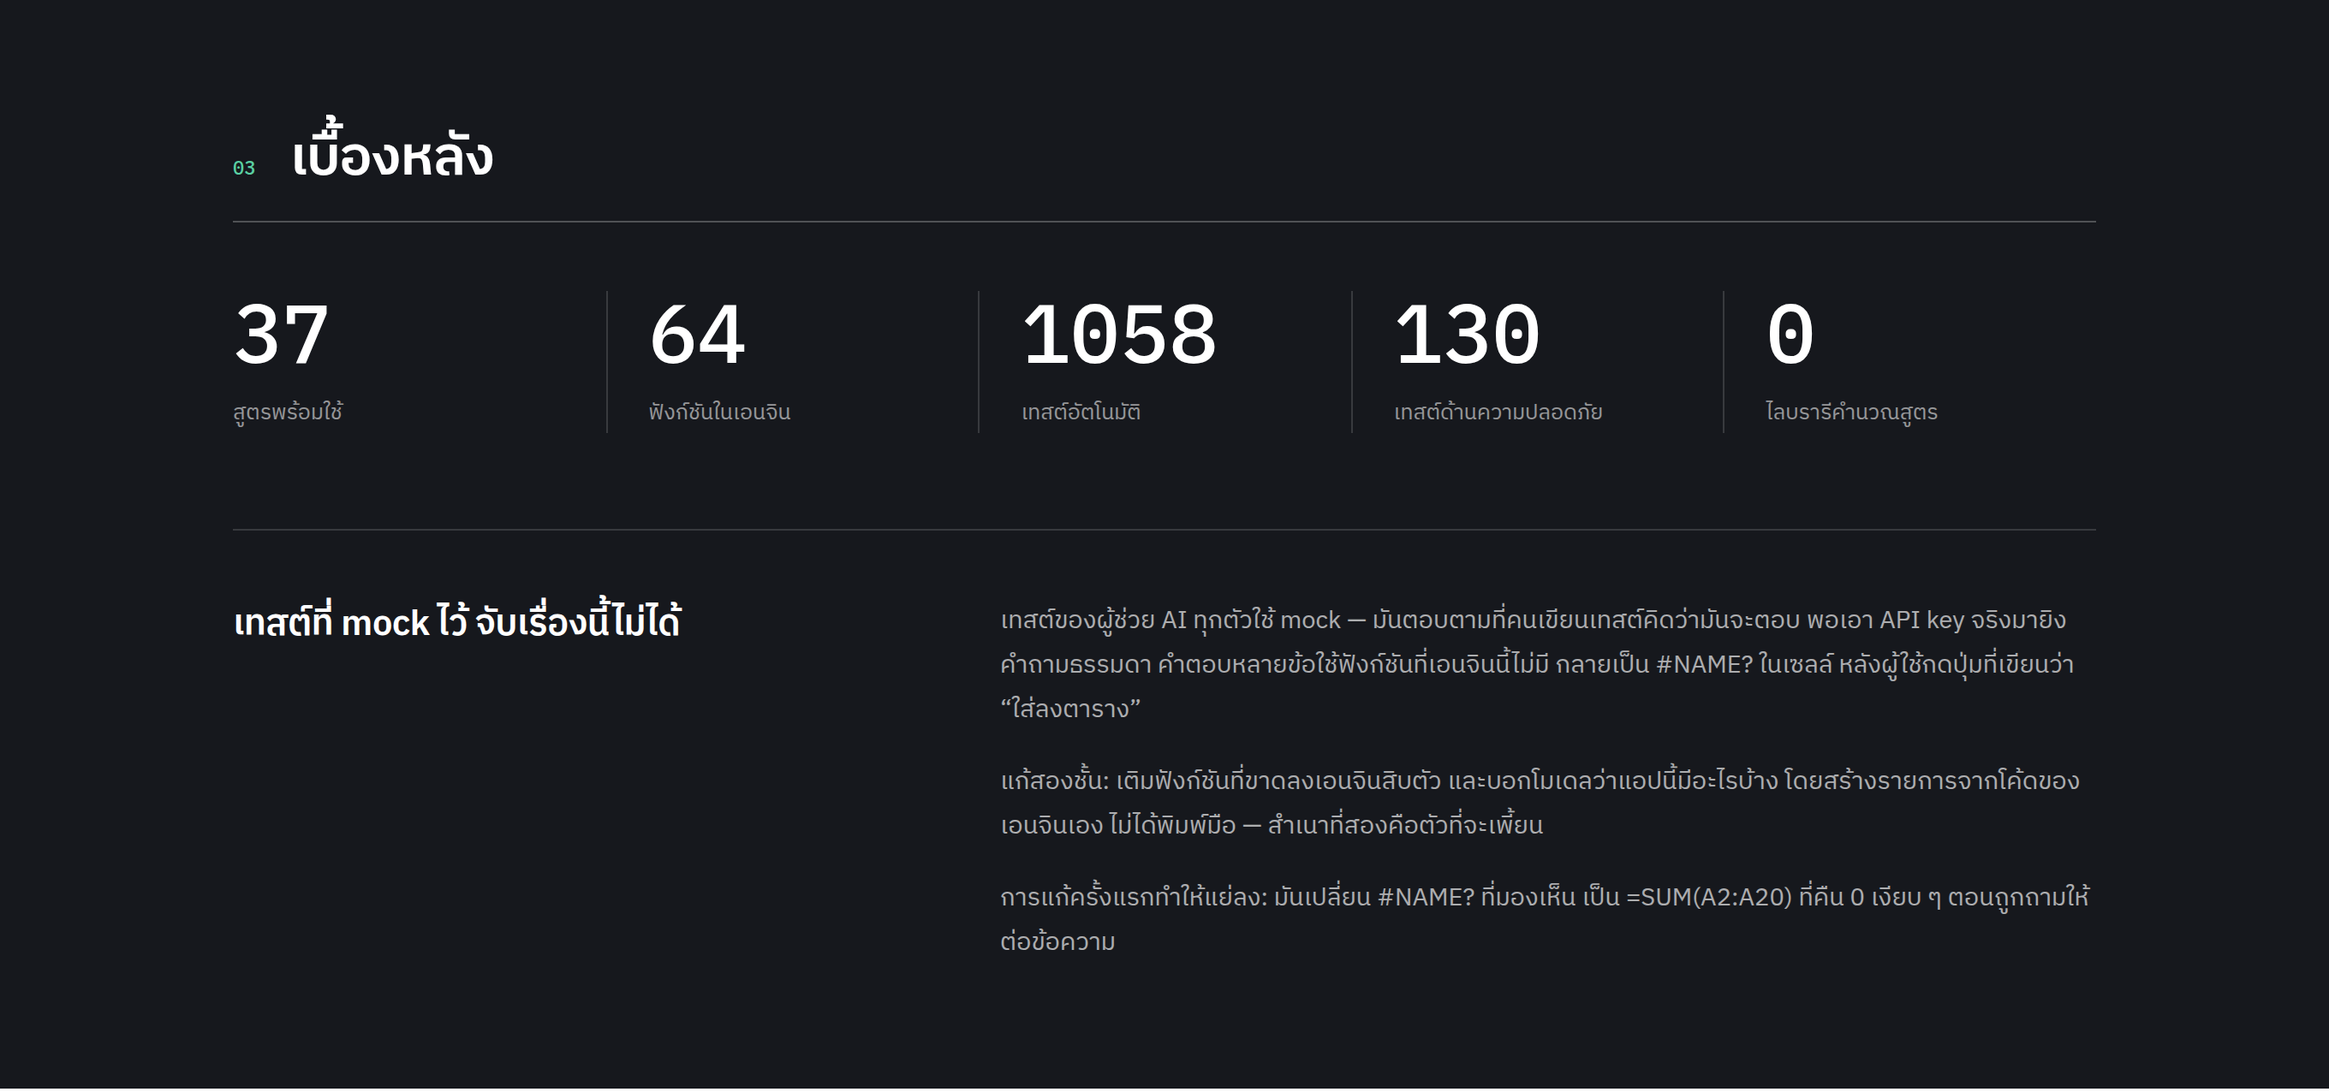
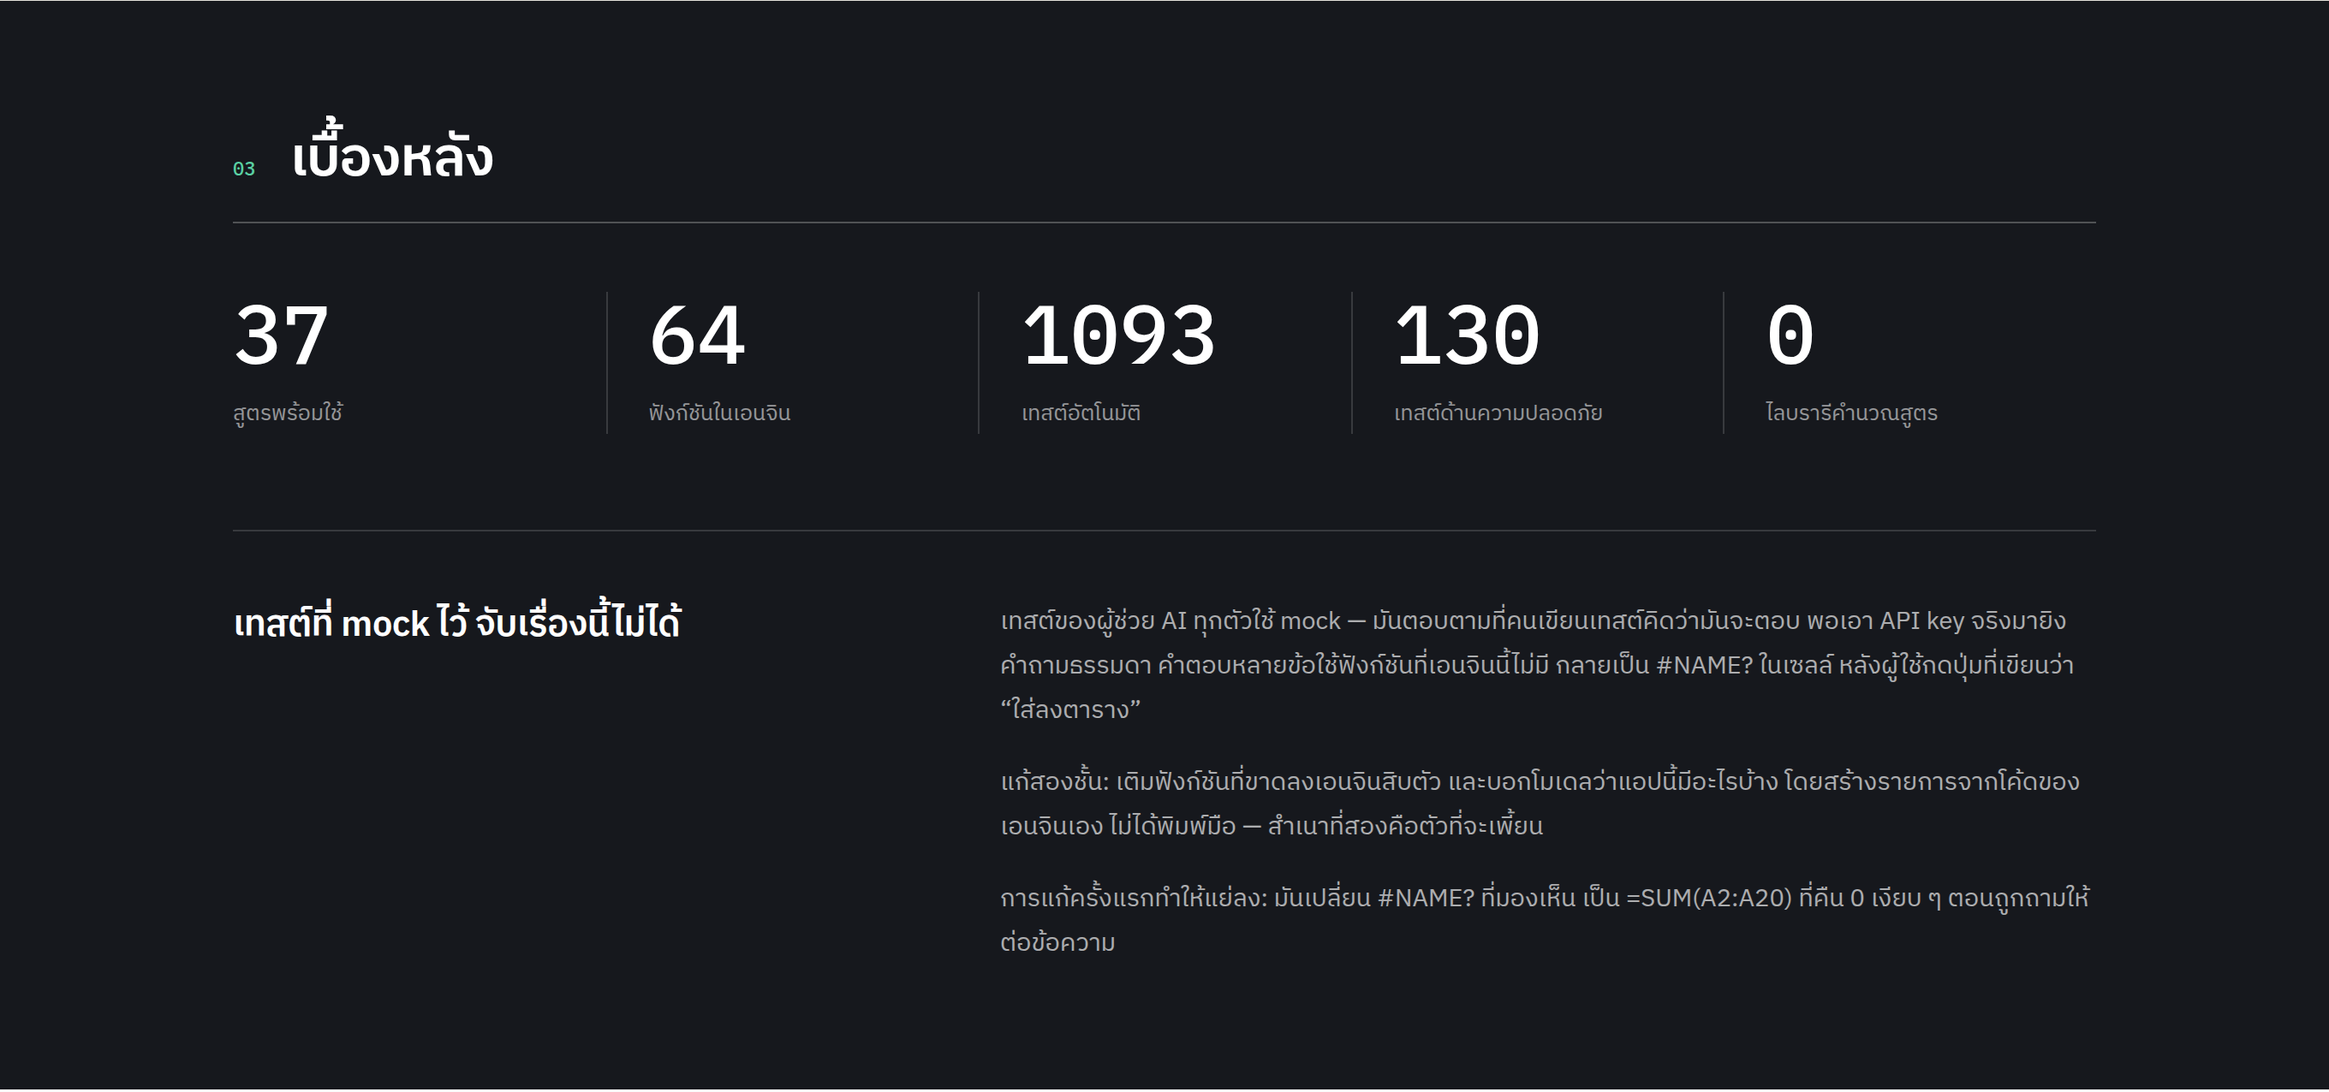
ci: a gate for the claims only a screenshot makes
`check:readme` counts tests in text, so a landing image reading "519 tests"
passed every gate for days while the real figure was 577. It happened again at
980. Both times the image was right when it was taken and quietly stopped being
right, which is the difficulty: nothing was wrong at the moment anyone looked.

So each screenshot now declares which counted figures it prints, and
`screenshots.json` records what those figures were at the last retake. A count
that moves without a retake names the file. It cannot read pixels; it notices
the world moving under them, which is the half that went wrong twice.

Every file in the folder needs an entry, including the thirty-eight that print
no figure at all: `[]` is a decision, a missing entry is an oversight, and the
whole point is telling those apart. Same shape as OPENED_STATES in the a11y gate.

It found two stale images on its first run — the landing hero and the stat strip
were both taken at 1058 and the suite is at 1093. Retaken from a production
build.

`check:readme` gains an escape hatch while I was in there: a project that
documents its own mistakes has to be able to quote a wrong number, and
"an image reading 519 tests survived for days" is a story, not a claim. A line
marked `<!-- historic -->` is exempt, and the marker is deliberately ugly so
that using it to silence a genuinely stale figure is an obvious thing to be
doing on purpose.

verify is ten gates.
[…]

diff --git a/AGENTS.md b/AGENTS.md
@@ -7,14 +7,14 @@
 Run one command and get it green before committing:
 
 ```bash
-npm run verify     # lint → check:readme → check:deps → test → check:mutants
+npm run verify     # lint → check:readme → check:screens → check:deps → test → check:mutants
                    #   → build → check:bundle → check:a11y → check:e2e
 ```
 
-GitHub Actions รันเก้าด่านเดียวกันนี้ทุก push และทุก PR (`.github/workflows/ci.yml`, Node 20.19 / 22.12 / 24;
+GitHub Actions รันสิบด่านเดียวกันนี้ทุก push และทุก PR (`.github/workflows/ci.yml`, Node 20.19 / 22.12 / 24;
 ด่าน a11y กับ e2e แยกเป็น job ของตัวเองเพราะต้องใช้เบราว์เซอร์) —
 รันเองก่อนยังคงเร็วกว่ารอ CI บอกว่าพัง
-GitHub Actions runs the same nine gates on every push and PR (Node 20.19 / 22.12 / 24; the a11y and e2e gates
+GitHub Actions runs the same ten gates on every push and PR (Node 20.19 / 22.12 / 24; the a11y and e2e gates
 are jobs of their own because they need a browser) — running them yourself
 first is still faster than waiting for CI to tell you.
 
@@ -83,6 +83,12 @@ cross means this commit rather than this draw; go looking for new gaps on purpos
   ลงแค่สำเนาเดียว การ์ดจึงเขียน 91 ทั้งที่ทุกที่อื่นเขียน 103 และไม่มีด่านไหนจับได้เพราะการ์ดเป็น PNG
   เพิ่มไฟล์เทสต์ความปลอดภัยใหม่ ให้เติมใน `SECURITY_TEST_FILES` ของไฟล์นั้นที่เดียว
 - จำนวน *ไฟล์* เทสต์ที่เขียนไว้ตรงกับของจริง (เคยเขียน 27 ทั้งที่มี 35)
+- ตัวเลขที่เป็น *เรื่องเล่า* ไม่ใช่การเคลม (เช่น "ภาพที่เขียนว่า 519 เทสต์ รอดมาได้หลายวัน") ให้ใส่
+  `<!-- historic -->` ไว้**บรรทัดเดียวกับตัวเลข** ด่านจะข้ามให้ · มาร์กเกอร์ตั้งใจให้ดูเกะกะ เพราะการเอาไป
+  ปิดเลขที่ค้างจริง ๆ ควรเป็นสิ่งที่ต้องตั้งใจทำ
+  A number that is *a story* rather than a claim ("an image reading 519 tests survived for days") takes
+  `<!-- historic -->` **on the same line as the number**. The marker is deliberately ugly: using it to
+  silence a genuinely stale figure should be an obvious thing to be doing on purpose.
 
 ### สิ่งที่สคริปต์เช็กแทนไม่ได้ — ต้องอ่านเอง
 ### What the script can't check — read it yourself
@@ -99,12 +105,21 @@ cross means this commit rather than this draw; go looking for new gaps on purpos
   Both READMEs change together, always.
 - **ตัวเลขที่เคลมต้องนับมาจริง** เช่น จำนวนสูตร/ฟังก์ชัน — เคยเขียนผิดมาแล้ว (22/41 ทั้งที่จริงคือ 25/42)
   Counts must come from counting. A wrong one shipped before: 22/41 claimed, 25/42 actual.
-- **ภาพหน้าจอก็เคลมตัวเลขได้ และไม่มีด่านไหนอ่านมันออก** — `check:readme` นับเทสต์จาก *ข้อความ* ภาพ
+- **ภาพหน้าจอก็เคลมตัวเลขได้** — ตอนนี้มี `npm run check:screens` คอยจับแล้ว: ภาพแต่ละไฟล์ประกาศไว้ว่า
+  *พิมพ์ตัวเลขอะไรไว้บ้าง* และ `screenshots.json` เก็บค่าตอนถ่ายครั้งล่าสุด พอตัวเลขในซอร์สขยับแล้วภาพยังไม่ถูกถ่ายใหม่
+  ด่านจะเรียกชื่อไฟล์นั้นออกมา **ไฟล์ใหม่ในโฟลเดอร์ต้องมีรายการใน `SHOWS` เสมอ** — `[]` คือการตัดสินใจ
+  ไม่มีรายการคือการลืม · ถ่ายใหม่แล้วรัน `npm run check:screens -- --bless` · **bless ทั้งที่ยังไม่ถ่ายใหม่
+  คือวิธีเดียวที่จะทำให้ด่านนี้ไร้ค่า**
+  A screenshot makes claims too, and `npm run check:screens` now watches them: each image declares which
+  counted figures it prints, `screenshots.json` records what they were when it was taken, and a count that
+  moves without a retake is named. **A new file in the folder needs an entry in `SHOWS`** — `[]` is a
+  decision, a missing entry is an oversight. Retake, then `npm run check:screens -- --bless`. **Blessing
+  without retaking is the one way to make this gate worthless.**
+- **เดิมทีข้อนี้เขียนว่าไม่มีด่านไหนอ่านภาพออก** — `check:readme` นับเทสต์จาก *ข้อความ* ภาพ
   landing page ที่เขียนว่า "519 เทสต์" จึงผ่านทุกด่านอยู่หลายวันทั้งที่จริงเป็น 577 เปลี่ยน UI หรือตัวเลขที่
   โชว์อยู่ในภาพเมื่อไร ต้องถ่ายใหม่เมื่อนั้น
-  A screenshot makes claims too, and no gate can read it. `check:readme` counts tests in *text*, so a
-  landing-page image reading "519 tests" passed every gate for days while the real figure was 577.
-  Change the UI or a number it shows, and the screenshot has to be retaken.
+  The gate above exists because of it, and it still only watches *figures*. Change the UI itself — a
+  layout, a label, a colour — and no gate can tell; that one is still on you to retake.
 
 ### เรื่องอื่นที่ทำเป็นปกติ / Other habits
 

diff --git a/README.md b/README.md
@@ -238,13 +238,14 @@ npm run dev
 | `npm run lint` | ตรวจสอบคุณภาพโค้ดด้วย ESLint |
 | `npm test` | รัน unit test 1093 เคสด้วย Vitest |
 | `npm run check:readme` | ตรวจว่า README ยังตรงกับโค้ด (ลิงก์/ภาพ/จำนวนเทสต์/โมดูลใหม่/สองภาษาตรงกัน) |
+| `npm run check:screens` | ตัวเลขที่พิมพ์อยู่บนภาพหน้าจอยังตรงกับซอร์สไหม |
 | `npm run check:deps` | ทุก advisory ต้องถูกแก้หรือถูกเขียนไว้พร้อมเหตุผลและวันหมดอายุ |
 | `npm run check:bundle` | งบขนาด bundle + ไลบรารีคลาวด์ต้องอยู่ chunk แยก (ต้อง build ก่อน) |
 | `npm run check:mutants` | ทุบเอนจินทีละจุดแล้วดูว่าเทสต์จับได้ไหม — 31/32 (ไม่ต้อง build) |
 | `npm run check:a11y` | รัน axe บนทั้งสองหน้าที่ 390px และ 1280px + เช็กการเลื่อนแนวนอน (ต้อง build ก่อน) |
 | `npm run check:e2e` | ขับแอปจริงในเบราว์เซอร์ 9 flow: พิมพ์สูตร, ส่งออก-นำเข้า `.xlsx`, คีย์บอร์ดล้วน, undo, เสียงประกาศ, ผู้ช่วย AI, CSP (ต้อง build ก่อน) |
 | `npm run check:ai` | ถาม Claude จริงด้วย key ของคุณ แล้วเช็กว่าสูตรที่ได้เอนจินนี้รันได้จริงไหม — ไม่อยู่ใน `verify` เพราะต้องใช้ key และมีค่าใช้จ่าย |
-| `npm run verify` | รันรวดเดียวก่อน push: lint → check:readme → check:deps → test → check:mutants → build → check:bundle → check:a11y → check:e2e |
+| `npm run verify` | รันรวดเดียวก่อน push: lint → check:readme → check:screens → check:deps → test → check:mutants → build → check:bundle → check:a11y → check:e2e |
 | `npm run build:social` | สร้าง `public/social-preview.png` (1280×640) ใหม่ โดยนับตัวเลขบนการ์ดจากซอร์ส |
 
 ### ขั้นที่ 2 — ตั้งค่าผู้ช่วย AI ให้ใช้ Claude จริง (ไม่บังคับ)
@@ -1580,6 +1581,7 @@ src/
                              #     + job accessibility: axe สองความกว้างบนเบราว์เซอร์จริง
 scripts/
   check-readme.mjs           # ตรวจ README ก่อน push (ไม่มี dependency) — ดูกติกาที่ AGENTS.md
+  check-screenshots.mjs      # ตัวเลขบนภาพหน้าจอยังตรงกับซอร์สไหม (ภาพใหม่ต้องมีรายการเสมอ)
   check-deps.mjs             # advisory ทุกตัวต้องมีคนเขียนถึง พร้อมเหตุผลและวันหมดอายุ
   check-bundle.mjs           # งบขนาด bundle + ไลบรารีคลาวด์ต้องอยู่ chunk แยกของตัวเอง
   check-mutants.mjs          # ทุบเอนจินทีละจุด แล้วถามว่าชุดเทสต์แดงไหม (ไม่มี dependency)
@@ -2235,6 +2237,10 @@ CI: `npm run verify` รวมทุกอย่างไว้แล้ว — 
       Supabase ยังอยู่ chunk ของตัวเอง โดยมี flow ในเบราว์เซอร์พิสูจน์ว่าไม่มีใครขอโหลดมัน ·
       CodeQL รันทุกสัปดาห์ด้วย ไม่ใช่แค่ตอน push เพราะ advisory ที่ออกเดือนหน้าคือข้อมูลใหม่ของโค้ดชุดเดิม
       ยังเหลือ: ยังไม่มีด่านวัดว่า*การโหลดหนึ่งหน้า*ส่งไบต์ไปเท่าไร วัดแค่สิ่งที่ build ออกมา
+- [x] **ด่านจับภาพหน้าจอที่ค้าง** — ทำแล้ว: `check:screens` ให้ภาพแต่ละไฟล์ประกาศว่าพิมพ์ตัวเลขอะไรไว้
+      เก็บค่าตอนถ่าย แล้วเรียกชื่อไฟล์ออกมาเมื่อตัวเลขขยับโดยที่ภาพยังไม่ถูกถ่ายใหม่ มันอ่านพิกเซลไม่ได้
+      แต่รู้ว่าโลกขยับใต้ภาพ ซึ่งเป็นสิ่งที่ทำให้ "519 เทสต์" กับ "980 เทสต์" อยู่รอดได้หลายวัน <!-- historic -->
+      ยังเหลือ: ไม่มีอะไรจับภาพที่*หน้าตา*ค้าง จับแต่ตัวเลข
 - [x] **Content-Security-Policy + security headers** — ทำแล้ว (`next.config.ts`): `connect-src` ระบุ
       เฉพาะ `api.anthropic.com` กับ origin ของ Supabase ถ้าตั้งไว้ สคริปต์ที่ถูกแทรกเข้ามาจึงส่ง API key
       ของผู้ใช้ออกไปข้างนอกไม่ได้ พร้อม `frame-ancestors`, `object-src`, `base-uri`, `form-action`,

diff --git a/README.en.md b/README.en.md
@@ -251,13 +251,14 @@ Other available commands:
 | `npm run lint` | Check code quality with ESLint |
 | `npm test` | Run the 1093-case Vitest suite |
 | `npm run check:readme` | Check the READMEs still match the code (links/images/test count/new modules/both languages) |
+| `npm run check:screens` | Figures printed on a screenshot still match the source |
 | `npm run check:deps` | Every advisory is fixed, or written down with a reason and a review date |
 | `npm run check:bundle` | Size budgets, and the cloud client staying in a chunk of its own (needs a build) |
 | `npm run check:mutants` | Breaks the engine on purpose and checks the suite notices — 31/32 (no build needed) |
 | `npm run check:a11y` | axe on both pages at 390px and 1280px, plus sideways-scroll checks (needs a build) |
 | `npm run check:e2e` | Drives the real app through 9 flows: formulas, `.xlsx` round trip, keyboard only, undo, announcements, the AI assistant, the CSP (needs a build) |
 | `npm run check:ai` | Asks the real Claude with your own key and checks the formulas against what this engine can evaluate — not in `verify`, because it needs a key and costs money |
-| `npm run verify` | Everything, before a push: lint → check:readme → check:deps → test → check:mutants → build → check:bundle → check:a11y → check:e2e |
+| `npm run verify` | Everything, before a push: lint → check:readme → check:screens → check:deps → test → check:mutants → build → check:bundle → check:a11y → check:e2e |
 | `npm run build:social` | Re-render `public/social-preview.png` (1280×640), counting the card's figures from source |
 
 ### Step 2 — Connect the AI assistant to real Claude (optional)
@@ -1710,6 +1711,7 @@ src/
                              #     plus an accessibility job: axe at two widths in a real browser
 scripts/
   check-readme.mjs           # Pre-push README check (dependency-free) — see AGENTS.md for the rule
+  check-screenshots.mjs      # Figures printed on a screenshot vs. the source (a new image needs an entry)
   check-deps.mjs             # Every advisory accounted for, with a reason and an expiry date
   check-bundle.mjs           # Size budgets, and the cloud client staying in a chunk of its own
   check-mutants.mjs          # Breaks the engine a character at a time and asks if the suite notices
@@ -2493,6 +2495,11 @@ What's not done yet, and why — to show this is a known gap, not something forg
       CodeQL runs weekly as well as on every push, because an advisory that lands next month is new
       information about code that has not changed. Still open: no gate on what a *page load* transfers,
       only on what is built.
+- [x] **A gate for stale screenshots** — done: `check:screens` has each image declare which counted
+      figures it prints, records them at retake, and names the file when a count moves without one. It
+      cannot read pixels; it notices the world moving under them, which is what let an image reading
+      "519 tests" survive for days, and then one reading "980 tests". <!-- historic --> Still open: nothing watches a screenshot whose *layout* went
+      stale, only its figures.
 - [x] **A Content-Security-Policy and the rest of the security headers** — done (`next.config.ts`):
       `connect-src` names only `api.anthropic.com` and the Supabase origin when one is configured, so an
       injected script cannot send the visitor's API key anywhere, alongside `frame-ancestors`,
